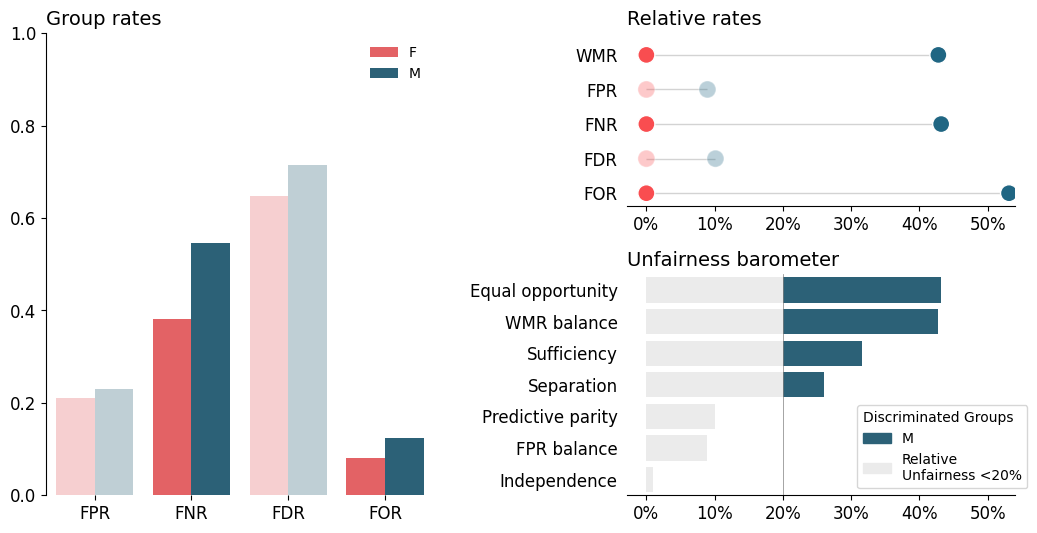
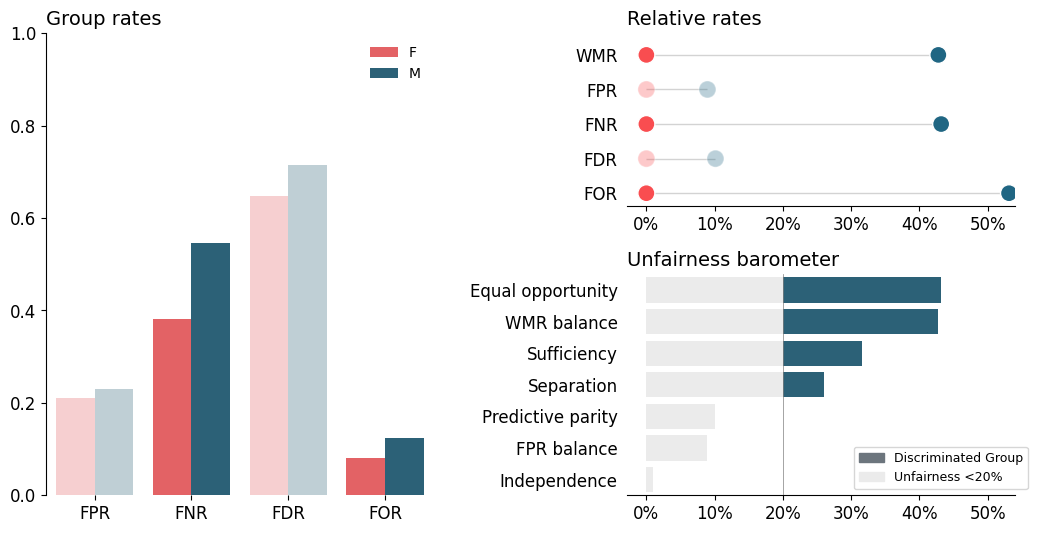
Legend for unfairness barometer done

Changed region(s): [[0.8023, 0.7505, 1.0, 0.9306]]

diff --git a/src/evaluation_tool/utils.py b/src/evaluation_tool/utils.py
@@ -288,43 +288,6 @@ def static_split(string, pattern, n_elem):
     out = tmp + [None]*n_remaining
     return out
 
-def get_fairness_barometer_legend_patches(plot_df, color_dict):
-    """Create patches according to group color for legend in fairness barometer
-
-    Args: 
-        plot_df (dataframe): Data frame used to create fairness barometer plot
-        color_dict (dict): Dict of colors with keys as color group
-
-    Returns: 
-        patches (list): List of matplotlib patches to put in legend handles 
-    """ 
-    plot_df = plot_df.query("relative_rate > 20")
-    discrims = np.unique(plot_df.discriminated_grp)
-    muted_colors = {k:desaturate(col) for (k,col) in color_dict.items()}
-    patches = []
-    for d in discrims: 
-        if len(d) == 1:
-            col = muted_colors[d[0]]
-            patch_tmp = mpatches.Patch(color=col, 
-                                       label=f'{d[0]}')
-        elif len(d) == 2: 
-            col0 = muted_colors[d[0]]
-            col1 = muted_colors[d[1]]
-            patch_tmp = (mpatches.Patch(
-                 label=f'{d[0]} and {d[1]}', 
-                 facecolor = col0,
-                 edgecolor = col1, 
-                 hatch = '/', 
-                 fill = True,
-                 linewidth = 0,
-                ))
-        else:
-            raise IndexError('Cannot use > 2 colors for stripes in barplot')
-        patches.append(patch_tmp)
-    patches.append(mpatches.Patch(color='#EBEBEB', label='Relative\nUnfairness <20%'))
-
-    return patches
-
 def get_BW_fairness_barometer_legend_patches(plot_df):
     """Create patches in black and white for legend in fairness barometer
 
@@ -339,22 +302,25 @@ def get_BW_fairness_barometer_legend_patches(plot_df):
     n_cols = np.unique([len(discrims[i]) for i in range(len(discrims))])
     patches = []
     if 1 in n_cols:
-        col = '#6C757D' #jet black
-        patch_tmp = mpatches.Patch(color=col,
-                                    label=f'One Group')
-        patches.append(patch_tmp)
+        col = '#6C757D' 
+        patch_1 = mpatches.Patch(color=col,
+                                    label=f'One Discriminated Group')
+        # Change Label if only one discrim group
+        if 2 not in n_cols:
+            patch_1.set_label('Discriminated Group')
+        patches.append(patch_1)
     if 2 in n_cols:
-        col0 = '#6C757D' #jet black
-        col1 = '#ADB5BD' #off white 
-        patch_tmp = (mpatches.Patch(
-                 label=f'Two Groups', 
+        col0 = '#6C757D' 
+        col1 = '#ADB5BD' 
+        patch_2 = (mpatches.Patch(
+                 label=f'Two Discriminated Groups', 
                  facecolor = col0,
                  edgecolor = col1, 
                  hatch = '/', 
                  fill = True,
                  linewidth = 0
                 ))
-        patches.append(patch_tmp)
+        patches.append(patch_2)
 
     patches.append(mpatches.Patch(color='#EBEBEB', label='Unfairness <20%'))
 

diff --git a/src/evaluation_tool/layered_tool.py b/src/evaluation_tool/layered_tool.py
@@ -638,9 +638,9 @@ class FairKit:
         patches = get_BW_fairness_barometer_legend_patches( 
             plot_df = plot_df)
         leg = ax.legend(handles=patches, loc = 'lower right', 
-            title = 'Discriminated Groups', 
-            bbox_to_anchor=(1.05,0),
-            frameon=True)
+        title = '',  prop={'size':self._legend_size-3},
+        bbox_to_anchor=(1.05,0),
+        frameon=True)
         leg._legend_box.align = "left"
         
 
